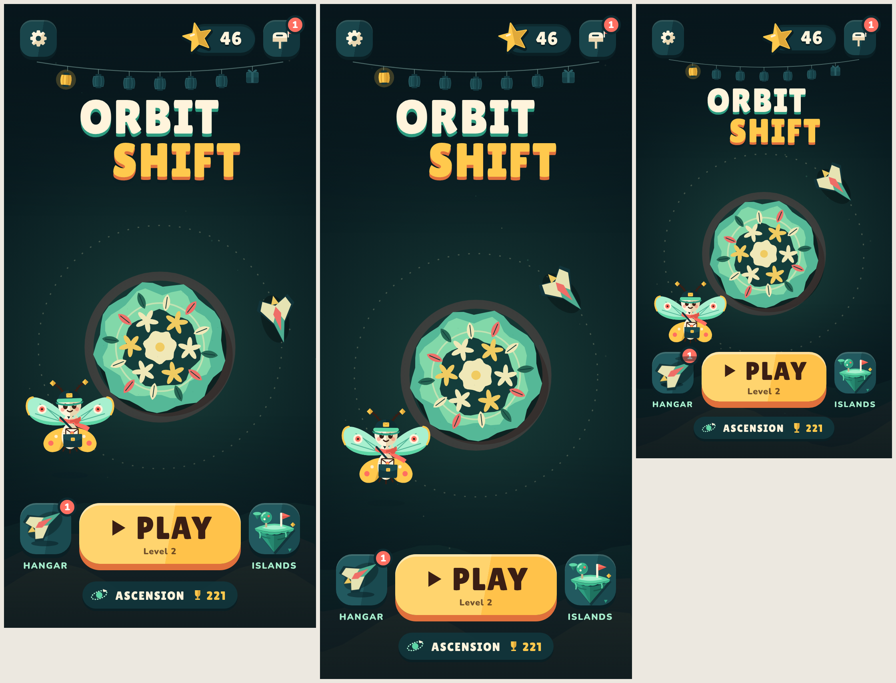
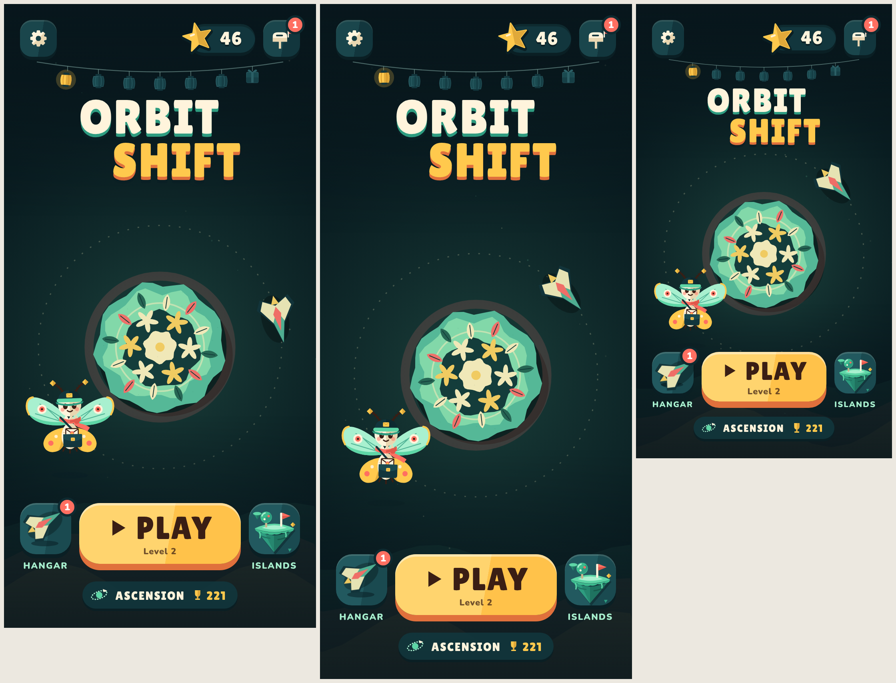
Keep Pip above the button row on short phones
Claude-Session: https://claude.ai/code/session_014B6k1GCUjNc6R7XLb1btAp

Changed region(s): [[0.7188, 0.3997, 0.8125, 0.5534], [0.9062, 0.246, 0.9375, 0.2767]]

diff --git a/game.js b/game.js
@@ -2151,7 +2151,11 @@ function placePip() {
   const size = Math.round(Math.max(88, Math.min(128, width * .32)));
   ui.pip.style?.setProperty("--size", `${size}px`);
   ui.pip.style?.setProperty("left", `${Math.max(6, cx - orbitRadius * .74 - size / 2)}px`);
-  ui.pip.style?.setProperty("top", `${cy + orbitRadius * .62 - size / 2}px`);
+  // Never lower than the button row (short phones).
+  const rowTop = ui.home.querySelector?.(".action-row")?.offsetTop;
+  let top = cy + orbitRadius * .62 - size / 2;
+  if (rowTop > 0) top = Math.min(top, rowTop - size * 1.075 - 2);
+  ui.pip.style?.setProperty("top", `${top}px`);
 }
 
 // Tonight's Letter: one daily Ascension delivery, the same sky for everyone that night. Only gameplay randomness
